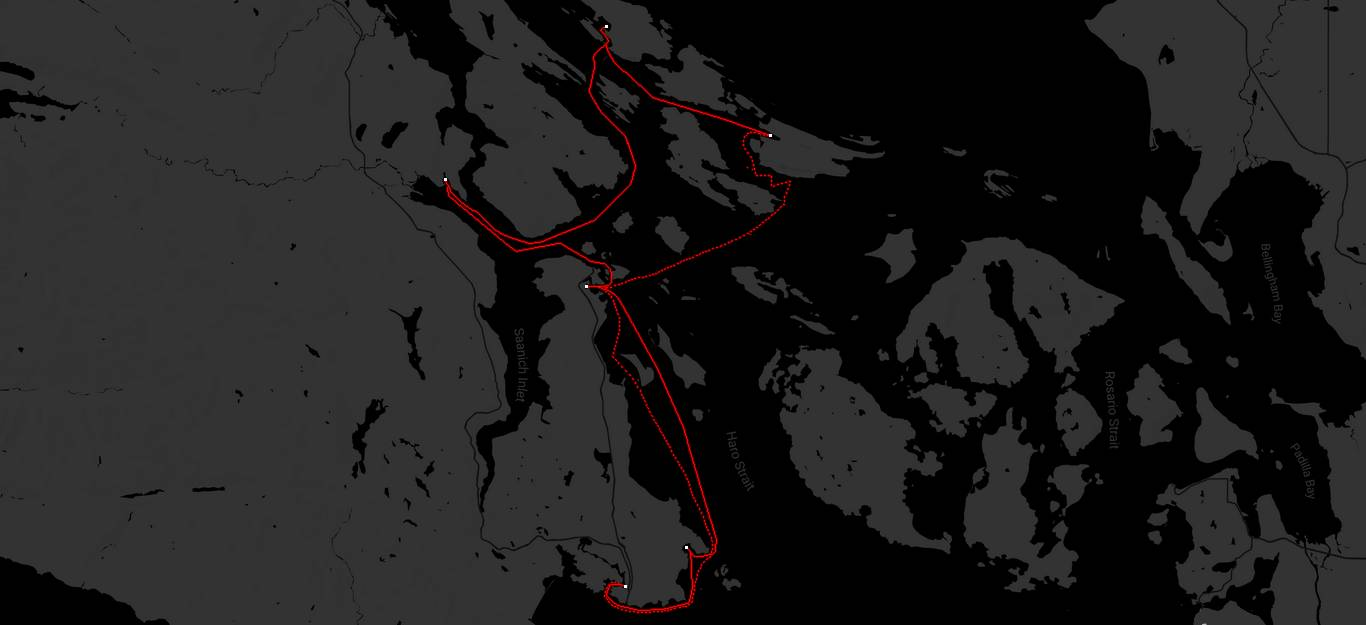
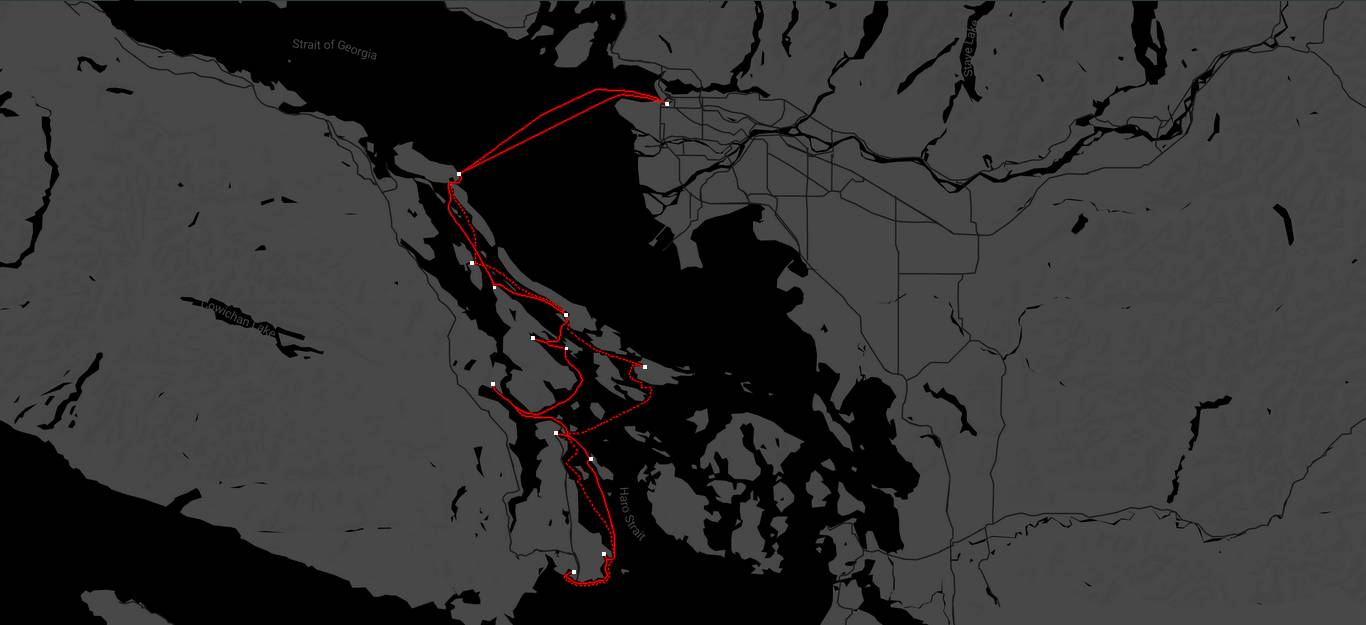
*

diff --git a/site/index.html b/site/index.html
@@ -104,5 +104,5 @@
 
 <h1>index</h1><ul class='col2 capital'><li><a href='2018.html'>2018</a></li><li><a href='2019.html'>2019</a></li><li><a href='2020.html'>2020</a></li><li><a href='2021.html'>2021</a></li><li><a href='2022.html'>2022</a></li><li><a href='6502_assembly.html'>6502 assembly</a></li><li><a href='a_home_for_pino.html'>a home for pino</a></li><li><a href='about_us.html'>about us</a></li><li><a href='abyc_wire_color_codes.html'>abyc wire color codes</a></li><li><a href='ac_electrical_refit.html'>ac electrical refit</a></li><li><a href='adelie.html'>adelie</a></li><li><a href='ais.html'>ais</a></li><li><a href='ais_installation.html'>ais installation</a></li><li><a href='alcohol_stove.html'>alcohol stove</a></li><li><a href='an_island_to_oneself.html'>an island to oneself</a></li><li><a href='anchoring.html'>anchoring</a></li><li><a href='anchoring_setup.html'>anchoring setup</a></li><li><a href='ballet_bay.html'>ballet bay</a></li><li><a href='barometer.html'>barometer</a></li><li><a href='batteries.html'>batteries</a></li><li><a href='beaufort_scale.html'>beaufort scale</a></li><li><a href='bed.html'>bed</a></li><li><a href='bikes.html'>bikes</a></li><li><a href='boat_projects.html'>boat projects</a></li><li><a href='boom_tent.html'>boom tent</a></li><li><a href='burgee.html'>burgee</a></li><li><a href='burgee_project.html'>burgee project</a></li><li><a href='busy_doing_nothing.html'>busy doing nothing</a></li><li><a href='buying_a_sailboat.html'>buying a sailboat</a></li><li><a href='calling_for_help.html'>calling for help</a></li><li><a href='captain_what_is_this.html'>captain what is this</a></li><li><a href='carbonation.html'>carbonation</a></li><li><a href='cast_iron_cookware.html'>cast iron cookware</a></li><li><a href='cathedral_grove.html'>cathedral grove</a></li><li><a href='charging_electronics.html'>charging electronics</a></li><li><a href='cleaning_products.html'>cleaning products</a></li><li><a href='coffee.html'>coffee</a></li><li><a href='communication.html'>communication</a></li><li><a href='computing_and_sustainability.html'>computing and sustainability</a></li><li><a href='contribute.html'>contribute</a></li><li><a href='cook_islands.html'>cook islands</a></li><li><a href='cooking.html'>cooking</a></li><li><a href='cost_of_simplicity.html'>cost of simplicity</a></li><li><a href='costs.html'>costs</a></li><li><a href='curtains.html'>curtains</a></li><li><a href='data_storage.html'>data storage</a></li><li><a href='dc_electrical_refit.html'>dc electrical refit</a></li><li><a href='decorations.html'>decorations</a></li><li><a href='diet.html'>diet</a></li><li><a href='distractions.html'>distractions</a></li><li><a href='ditch_bag.html'>ditch bag</a></li><li><a href='diy_carbonation_system.html'>diy carbonation system</a></li><li><a href='documenting.html'>documenting</a></li><li><a href='doldrumming.html'>doldrumming</a></li><li><a href='donsol.html'>donsol</a></li><li><a href='dotgrid.html'>dotgrid</a></li><li><a href='drownspire.html'>drownspire</a></li><li><a href='dry_toilet.html'>dry toilet</a></li><li><a href='dry_toilet_installation.html'>dry toilet installation</a></li><li><a href='electrical_refit.html'>electrical refit</a></li><li><a href='energy.html'>energy</a></li><li><a href='engine_care.html'>engine care</a></li><li><a href='engine_rebuild.html'>engine rebuild</a></li><li><a href='fiji.html'>fiji</a></li><li><a href='first_aid_kit.html'>first aid kit</a></li><li><a href='food_storage.html'>food storage</a></li><li><a href='forecast.html'>forecast</a></li><li><a href='formalities.html'>formalities</a></li><li><a href='french_polynesia.html'>french polynesia</a></li><li><a href='fuel_sensor.html'>fuel sensor</a></li><li><a href='gabriola.html'>gabriola</a></li><li><a href='galiano.html'>galiano</a></li><li><a href='galley.html'>galley</a></li><li><a href='galley_plumbing.html'>galley plumbing</a></li><li><a href='galley_tools.html'>galley tools</a></li><li><a href='goji_no_chaimu.html'>goji no chaimu</a></li><li><a href='grace_harbour.html'>grace harbour</a></li><li><a href='gravity_water_filter.html'>gravity water filter</a></li><li><a href='grib_files.html'>grib files</a></li><li><a href='grimgrains.html'>grimgrains</a></li><li><a href='grinder.html'>grinder</a></li><li><a href='ground_tackle.html'>ground tackle</a></li><li><a href='growing_food.html'>growing food</a></li><li><a href='halloween_pumpkins.html'>halloween pumpkins</a></li><li><a href='hardware.html'>hardware</a></li><li><a href='hathayim_marine_park.html'>hathayim marine park</a></li><li><a href='headsail.html'>headsail</a></li><li><a href='heating.html'>heating</a></li><li><a href='hello_fujisan.html'>hello fujisan</a></li><li><a href='heriot_bay.html'>heriot bay</a></li><li><a href='hexadecimal_table.html'>hexadecimal table</a></li><li><a href='hiversaires.html'>hiversaires</a></li><li><a href='home.html'>home</a></li><li><a href='iggy.html'>iggy</a></li><li><a href='index.html'>index</a></li><li><a href='induction_cooking.html'>induction cooking</a></li><li><a href='insulation.html'>insulation</a></li><li><a href='insulation_cooking.html'>insulation cooking</a></li><li><a href='insurance.html'>insurance</a></li><li><a href='internet.html'>internet</a></li><li><a href='internet_in_paradise.html'>internet in paradise</a></li><li><a href='japan.html'>japan</a></li><li><a href='jib_cars.html'>jib cars</a></li><li><a href='knots.html'>knots</a></li><li><a href='lactofermentation.html'>lactofermentation</a></li><li><a href='ladysmith.html'>ladysmith</a></li><li><a href='laundry.html'>laundry</a></li><li><a href='lazy_jacks.html'>lazy jacks</a></li><li><a href='left.html'>left</a></li><li><a href='left_electron.html'>left electron</a></li><li><a href='leleuvia.html'>leleuvia</a></li><li><a href='library.html'>library</a></li><li><a href='license.html'>license</a></li><li><a href='lifelines.html'>lifelines</a></li><li><a href='liveaboard.html'>liveaboard</a></li><li><a href='log.html'>log</a></li><li><a href='lost_logbook.html'>lost logbook</a></li><li><a href='lpg.html'>lpg</a></li><li><a href='lpg_refit.html'>lpg refit</a></li><li><a href='mainsail.html'>mainsail</a></li><li><a href='maintenance_cost.html'>maintenance cost</a></li><li><a href='makogai.html'>makogai</a></li><li><a href='maple_bay.html'>maple bay</a></li><li><a href='marine_wire_termination.html'>marine wire termination</a></li><li><a href='markl.html'>markl</a></li><li><a href='marshall_islands.html'>marshall islands</a></li><li><a href='medical.html'>medical</a></li><li><a href='melanie_cove.html'>melanie cove</a></li><li><a href='meta.nav.html'>meta.nav</a></li><li><a href='metal_halyard_swaging.html'>metal halyard swaging</a></li><li><a href='mexico.html'>mexico</a></li><li><a href='mini_dodger.html'>mini dodger</a></li><li><a href='mission.html'>mission</a></li><li><a href='money.html'>money</a></li><li><a href='moorage.html'>moorage</a></li><li><a href='nasu.html'>nasu</a></li><li><a href='nasu_guide.html'>nasu guide</a></li><li><a href='navigation.html'>navigation</a></li><li><a href='new_zealand.html'>new zealand</a></li><li><a href='night_sailing.html'>night sailing</a></li><li><a href='niju.html'>niju</a></li><li><a href='niue.html'>niue</a></li><li><a href='noodle.html'>noodle</a></li><li><a href='north_pacific_logbook.html'>north pacific logbook</a></li><li><a href='north_pacific_ocean.html'>north pacific ocean</a></li><li><a href='nutrition.html'>nutrition</a></li><li><a href='oars.html'>oars</a></li><li><a href='octopus_islands.html'>octopus islands</a></li><li><a href='off_the_grid.html'>off the grid</a></li><li><a href='offshore.html'>offshore</a></li><li><a href='offshore_checklist.html'>offshore checklist</a></li><li><a href='ogasawara_cruising_guide.html'>ogasawara cruising guide</a></li><li><a href='oquonie.html'>oquonie</a></li><li><a href='orca.html'>orca</a></li><li><a href='paradise.html'>paradise</a></li><li><a href='philosophy.html'>philosophy</a></li><li><a href='pino.html'>pino</a></li><li><a href='plantbased_diet_in_japan.html'>plantbased diet in japan</a></li><li><a href='power.html'>power</a></li><li><a href='press.html'>press</a></li><li><a href='pressure_cooker.html'>pressure cooker</a></li><li><a href='princess_louisa_inlet.html'>princess louisa inlet</a></li><li><a href='privacy.html'>privacy</a></li><li><a href='productivity.html'>productivity</a></li><li><a href='projects_and_pain.html'>projects and pain</a></li><li><a href='propeller_maintenance.html'>propeller maintenance</a></li><li><a href='provisioning.html'>provisioning</a></li><li><a href='provisioning_in_japan.html'>provisioning in japan</a></li><li><a href='pull_request.html'>pull request</a></li><li><a href='rabbits.html'>rabbits</a></li><li><a href='radio.html'>radio</a></li><li><a href='rain.html'>rain</a></li><li><a href='rainy_with_a_chance_of_mosquitoes.html'>rainy with a chance of mosquitoes</a></li><li><a href='reefing.html'>reefing</a></li><li><a href='refrigeration.html'>refrigeration</a></li><li><a href='regulator.html'>regulator</a></li><li><a href='resources.html'>resources</a></li><li><a href='ronin.html'>ronin</a></li><li><a href='roscoe_bay.html'>roscoe bay</a></li><li><a href='safety_gear.html'>safety gear</a></li><li><a href='sailing.html'>sailing</a></li><li><a href='sailing_in_japan.html'>sailing in japan</a></li><li><a href='saloon_hatch.html'>saloon hatch</a></li><li><a href='satellite_phone.html'>satellite phone</a></li><li><a href='saturna.html'>saturna</a></li><li><a href='saving_fuel.html'>saving fuel</a></li><li><a href='schedule.html'>schedule</a></li><li><a href='seasickness.html'>seasickness</a></li><li><a href='setup.html'>setup</a></li><li><a href='sewing.html'>sewing</a></li><li><a href='shimoda.html'>shimoda</a></li><li><a href='shore_power_cord_repair.html'>shore power cord repair</a></li><li><a href='shower.html'>shower</a></li><li><a href='sky_reading.html'>sky reading</a></li><li><a href='small_space.html'>small space</a></li><li><a href='smuggler_cove.html'>smuggler cove</a></li><li><a href='snubber.html'>snubber</a></li><li><a href='software.html'>software</a></li><li><a href='solar.html'>solar</a></li><li><a href='solar_box_cooking.html'>solar box cooking</a></li><li><a href='solar_cooking.html'>solar cooking</a></li><li><a href='solar_evacuated_tube_cooking.html'>solar evacuated tube cooking</a></li><li><a href='solar_tips.html'>solar tips</a></li><li><a href='sprouting.html'>sprouting</a></li><li><a href='squalls.html'>squalls</a></li><li><a href='standing_rigging_replacement.html'>standing rigging replacement</a></li><li><a href='store.html'>store</a></li><li><a href='story.html'>story</a></li><li><a href='sturt_bay.html'>sturt bay</a></li><li><a href='sun_driers.html'>sun driers</a></li><li><a href='support.html'>support</a></li><li><a href='teapot.html'>teapot</a></li><li><a href='telegraph_cove.html'>telegraph cove</a></li><li><a href='tenedos_bay.html'>tenedos bay</a></li><li><a href='the_promise_of_pancakes.html'>the promise of pancakes</a></li><li><a href='the_rock_of_polynesia.html'>the rock of polynesia</a></li><li><a href='thousand_rooms.html'>thousand rooms</a></li><li><a href='thruhulls.html'>thruhulls</a></li><li><a href='tonga.html'>tonga</a></li><li><a href='toolbox.html'>toolbox</a></li><li><a href='tools_ecosystem.html'>tools ecosystem</a></li><li><a href='turnip.html'>turnip</a></li><li><a href='typhoons_and_mold.html'>typhoons and mold</a></li><li><a href='us_west_coast.html'>us west coast</a></li><li><a href='uxn.html'>uxn</a></li><li><a href='uxn_design.html'>uxn design</a></li><li><a href='uxn_guide.html'>uxn guide</a></li><li><a href='verreciel.html'>verreciel</a></li><li><a href='victoria.html'>victoria</a></li><li><a href='videos.html'>videos</a></li><li><a href='washing_produce.html'>washing produce</a></li><li><a href='waste.html'>waste</a></li><li><a href='water.html'>water</a></li><li><a href='water_filtration.html'>water filtration</a></li><li><a href='water_storage.html'>water storage</a></li><li><a href='weather.html'>weather</a></li><li><a href='weathering_software_winter.html'>weathering software winter</a></li><li><a href='website.html'>website</a></li><li><a href='western_canada.html'>western canada</a></li><li><a href='wheel_to_tiller_conversion.html'>wheel to tiller conversion</a></li><li><a href='where.html'>where</a></li><li><a href='why_a_boat.html'>why a boat</a></li><li><a href='wiktopher.html'>wiktopher</a></li><li><a href='windlass_removal.html'>windlass removal</a></li><li><a href='window_replacement.html'>window replacement</a></li><li><a href='winter_insulation.html'>winter insulation</a></li><li><a href='woodstove.html'>woodstove</a></li><li><a href='woodstove_installation.html'>woodstove installation</a></li><li><a href='working_offgrid_efficiently.html'>working offgrid efficiently</a></li></ul>
 
-</main><footer><hr /><span style='float:right'>Edited on Tue Oct 31 10:42:25 2023
+</main><footer><hr /><span style='float:right'>Edited on Tue Oct 31 17:12:02 2023
  <a href='https://github.com/hundredrabbits/100r.co/edit/main/src/src/inc/index.htm'>[edit]</a><br/></span><b>Hundredrabbits</b> © 2023 — <a href='https://github.com/hundredrabbits/100r.co/blob/main/LICENSE.by-nc-sa-4.0.md' target='_blank'>BY-NC-SA 4.0</a></footer></body></html>

diff --git a/site/western_canada.html b/site/western_canada.html
@@ -116,7 +116,7 @@
 
 <a href="../media/content/maps/2021.jpg" target="_blank"><img src="../media/content/maps/2021.jpg" alt="2021 sailing route in bc canada" loading="lazy">
 
-<p><b>Summer 2021 route:</b> Victoria > Cadboro Bay > North Saanich > Genoa Bay > Montague (<a href='galiano.html' class='local'>galiano</a>) > Lyall Harbour (Saturna Island) > North Saanich > Victoria. <b>Note.</b> We had engine problems that year, so we didn't cruise around too much. See <a href='engine_rebuild.html' class='local'>engine rebuild</a>. We also did a lot of <a href='boat_projects.html' class='local'>boat projects</a>, like installing our <a href='woodstove.html' class='local'>woodstove</a>, our <a href='dry_toilet.html' class='local'>dry toilet</a> and dealing with <a href='thruhulls.html' class='local'>thruhulls</a>.</p>
+<p><b>Summer 2021 route:</b> Victoria > Cadboro Bay > North Saanich > Wesport Boatyard > Genoa Bay > Glenthorne Passage > Ganges(SaltSpring Island) > Montague (<a href='galiano.html' class='local'>galiano</a>) > Southey Bay > <a href='gabriola.html' class='local'>gabriola</a> > False Creek(Vancouver) > <a href='gabriola.html' class='local'>gabriola</a> > Clam Bay > Montague Harbour >  Lyall Harbour (Saturna Island) > North Saanich > Victoria. <b>Note.</b> We had engine problems that year, so we didn't cruise around too much. See <a href='engine_rebuild.html' class='local'>engine rebuild</a>. We also did a lot of <a href='boat_projects.html' class='local'>boat projects</a>, like installing our <a href='woodstove.html' class='local'>woodstove</a>, our <a href='dry_toilet.html' class='local'>dry toilet</a> and dealing with <a href='thruhulls.html' class='local'>thruhulls</a>.</p>
 
 <a href="../media/content/maps/2022.jpg" target="_blank"><img src="../media/content/maps/2022.jpg" alt="2022 sailing route in bc canada" loading="lazy">
 
@@ -170,5 +170,5 @@
 
 
 
-</main><footer><hr /><span style='float:right'>Edited on Tue Oct 31 10:42:19 2023
+</main><footer><hr /><span style='float:right'>Edited on Tue Oct 31 17:11:51 2023
  <a href='https://github.com/hundredrabbits/100r.co/edit/main/src/src/inc/western_canada.htm'>[edit]</a><br/></span><b>Hundredrabbits</b> © 2023 — <a href='https://github.com/hundredrabbits/100r.co/blob/main/LICENSE.by-nc-sa-4.0.md' target='_blank'>BY-NC-SA 4.0</a></footer></body></html>

diff --git a/src/inc/western_canada.htm b/src/inc/western_canada.htm
@@ -12,7 +12,7 @@
 
 <a href="../media/content/maps/2021.jpg" target="_blank"><img src="../media/content/maps/2021.jpg" alt="2021 sailing route in bc canada" loading="lazy">
 
-<p><b>Summer 2021 route:</b> Victoria > Cadboro Bay > North Saanich > Genoa Bay > Montague ({Galiano}) > Lyall Harbour (Saturna Island) > North Saanich > Victoria. <b>Note.</b> We had engine problems that year, so we didn't cruise around too much. See {engine rebuild}. We also did a lot of {boat projects}, like installing our {woodstove}, our {dry toilet} and dealing with {thruhulls}.</p>
+<p><b>Summer 2021 route:</b> Victoria > Cadboro Bay > North Saanich > Wesport Boatyard > Genoa Bay > Glenthorne Passage > Ganges(SaltSpring Island) > Montague ({Galiano}) > Southey Bay > {Gabriola} > False Creek(Vancouver) > {Gabriola} > Clam Bay > Montague Harbour >  Lyall Harbour (Saturna Island) > North Saanich > Victoria. <b>Note.</b> We had engine problems that year, so we didn't cruise around too much. See {engine rebuild}. We also did a lot of {boat projects}, like installing our {woodstove}, our {dry toilet} and dealing with {thruhulls}.</p>
 
 <a href="../media/content/maps/2022.jpg" target="_blank"><img src="../media/content/maps/2022.jpg" alt="2022 sailing route in bc canada" loading="lazy">
 
